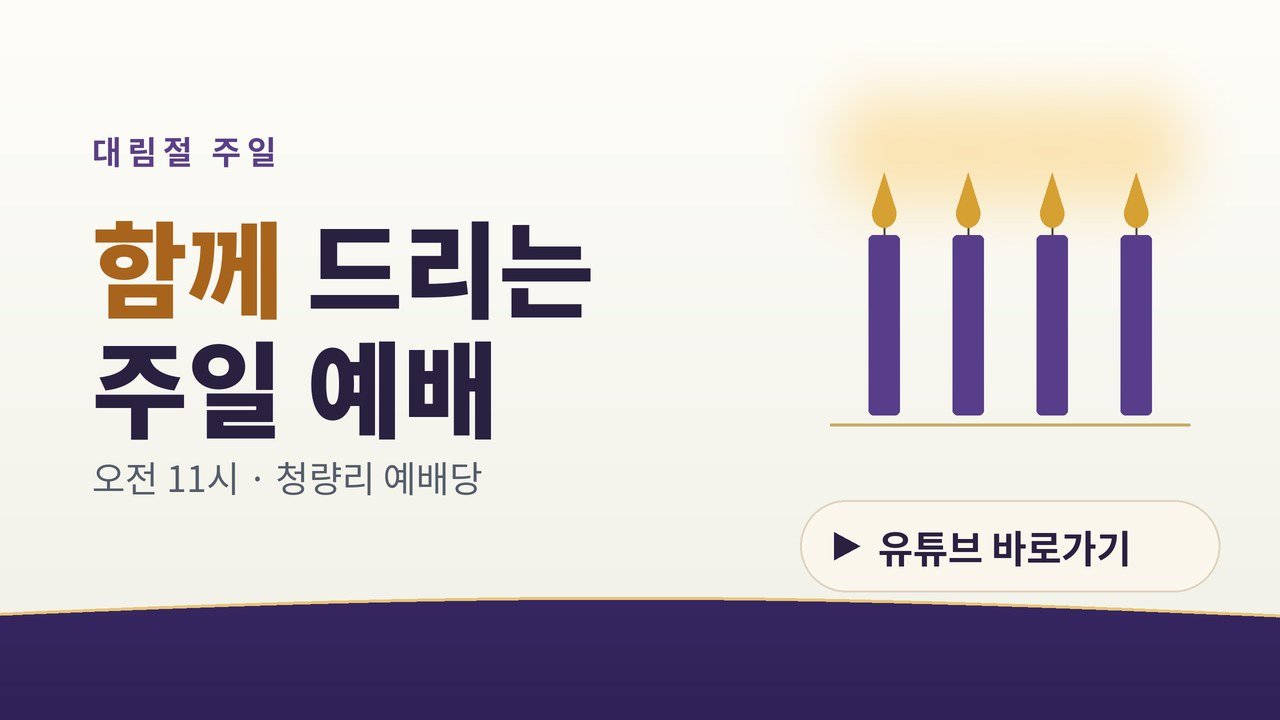
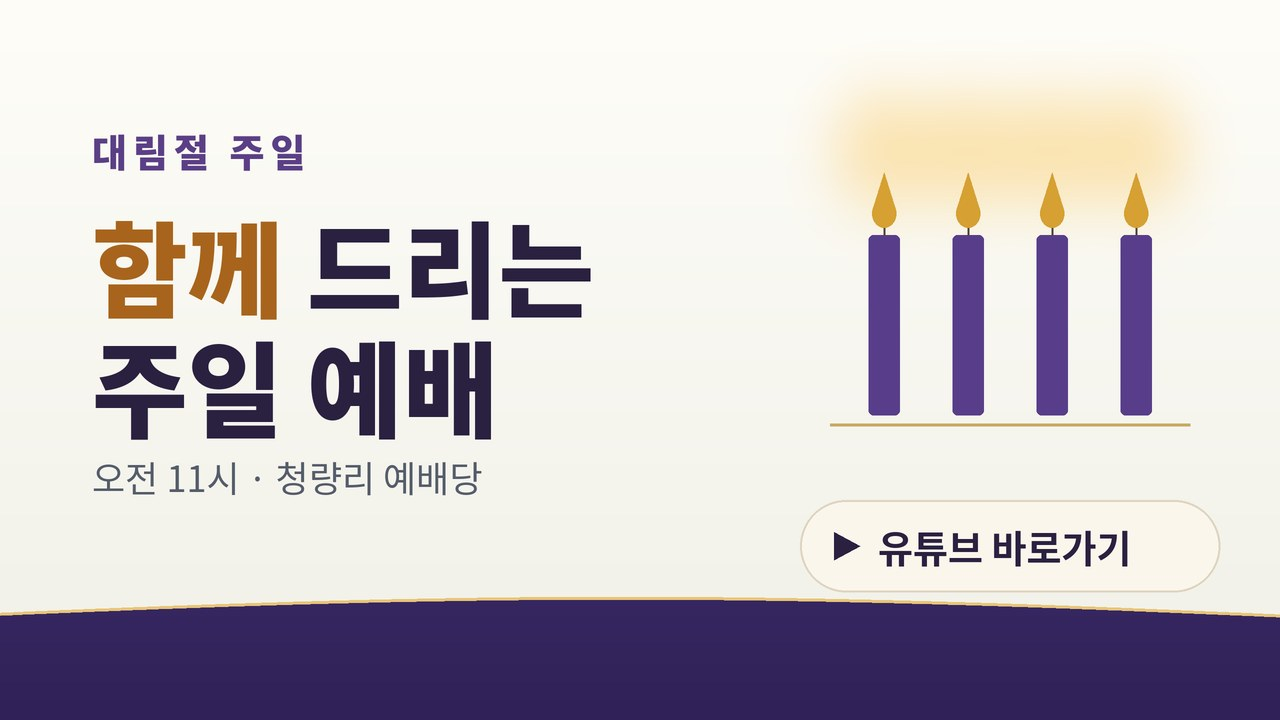
주일 배너 절기 예약(성탄절·신년·주현절), 라벨 글자 키움
Claude-Session: https://claude.ai/code/session_01SUQQLDh1VZ9DJkmDKHFesn

Changed region(s): [[0.0625, 0.1833, 0.25, 0.2444]]

diff --git a/index.html b/index.html
@@ -717,8 +717,8 @@ function kidsBanner() {   // 어린이 채널 배너(표지 1장) → 채널로 
 // 홈 화면: 주일·새벽·어린이 모두 카드 한 장 → 유튜브 재생목록(채널)으로 연결
 const SUNDAY_LIST = 'https://www.youtube.com/playlist?list=PLXuDDjm7EXZo', DAWN_LIST = 'https://www.youtube.com/playlist?list=PLderqM7aVwPk';   // 재생목록 주소를 받으면 여기만 바꾼다
 // 주일 카드: 절기별 배너(마지막 날짜까지). 이후는 기본 배너. 미리보기는 주소 끝에 ?d=2026-12-06
-const SUNDAY_SEASON = [['2026-11-22', 'sunday-creation'], ['2026-12-24', 'sunday-advent']];
-const IMG_V = '?v=20261119e';   // 배너 이미지를 바꿀 때 이 날짜도 바꾼다(휴대폰에 남은 옛 이미지 방지)
+const SUNDAY_SEASON = [['2026-11-22', 'sunday-creation'], ['2026-12-23', 'sunday-advent'], ['2026-12-30', 'sunday-christmas'], ['2027-01-03', 'sunday-newyear'], ['2027-02-09', 'sunday-epiphany']];
+const IMG_V = '?v=20261119f';   // 배너 이미지를 바꿀 때 이 날짜도 바꾼다(휴대폰에 남은 옛 이미지 방지)
 function listCard(href, src, label) {   // 가로 배너 한 장 → 유튜브 재생목록
   const t = make('a', 'vthumb kbanner'); t.href = href; t.target = '_blank'; t.rel = 'noopener'; t.setAttribute('aria-label', label);
   const img = make('img'); img.src = src + IMG_V; img.alt = label; img.loading = 'lazy'; img.decoding = 'async'; t.append(img); return t;

diff --git a/CLAUDE.md b/CLAUDE.md
@@ -10,7 +10,7 @@
 ## 영상이 보이는 방식 (2026.11.11 확정 · 계속 이렇게 유지)
 홈에는 개별 영상을 두지 않고 배너만 둔다. 아래 규칙은 바꾸지 않는다.
 - **홈 화면 '말씀 영상'** (2026.11.19 변경: 세 줄 모두 같은 가로 배너(16:9) 한 장, 누르면 유튜브로 연결)
-  - 주일 줄: 절기별 배너. `index.html`의 `SUNDAY_SEASON`에 [마지막 날짜, 파일 이름]을 날짜순으로 적는다. 지금은 ~11/22 `videos/sunday-creation.jpg`, ~12/24 `videos/sunday-advent.jpg`. 마지막 날짜가 지나면 `videos/sunday-default.jpg`.
+  - 주일 줄: 절기별 배너. `index.html`의 `SUNDAY_SEASON`에 [마지막 날짜, 파일 이름]을 날짜순으로 적는다. 창조절 ~11/22 · 대림절 ~12/23 · 성탄절 12/24~12/30 · 신년 12/31~1/3 · 주현절 1/4~2/9 (`videos/sunday-*.jpg`). 마지막 날짜가 지나면 `videos/sunday-default.jpg`. 미리보기는 주소 끝에 `?d=2026-12-25`.
   - 새벽 줄: `videos/dawn-banner.jpg`
   - 어린이 줄: `videos/kids-channel.jpg`
   - 배너 규격 1280×720. 안 문구는 특정 설교가 아니라 안내 문구('함께 드리는 주일 예배' 등)로 두고, 주일·새벽 배너는 오른쪽에 '▶ 유튜브 바로가기' 버튼(왼쪽은 안내 문구), 어린이 배너는 아래 가운데에 같은 크기의 같은 버튼. 배너 이미지를 바꾸면 index.html의 IMG_V 값도 바꾼다.
